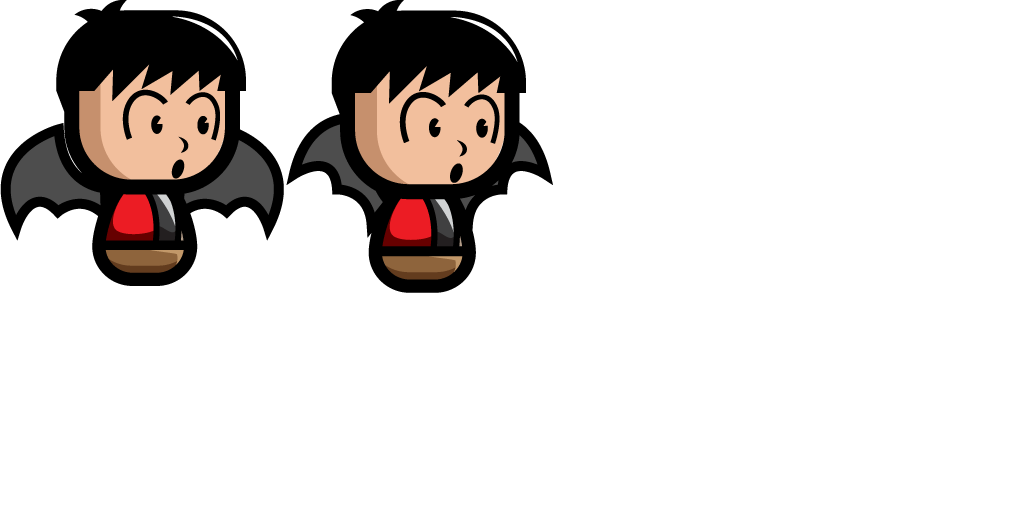
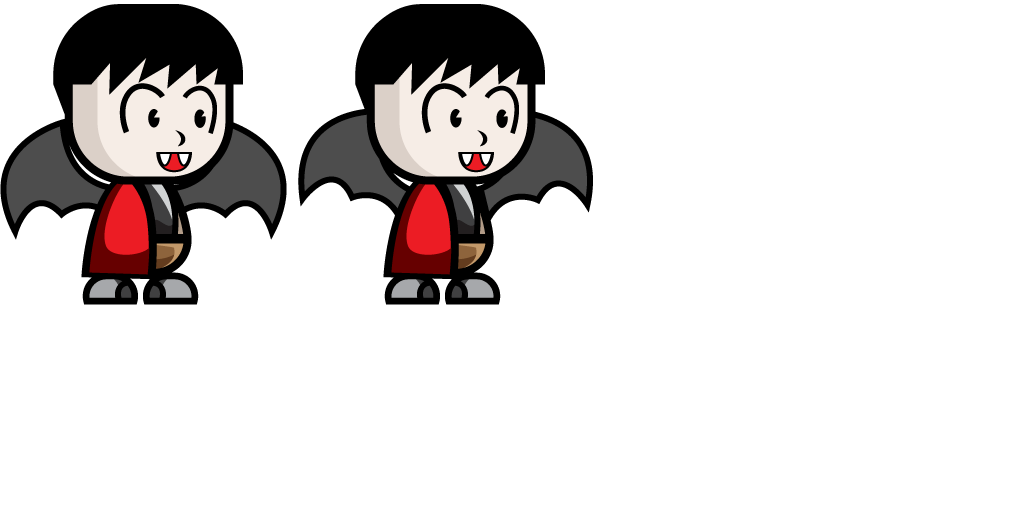
the player is now a vampire

Changed region(s): [[0.0, 0.0, 0.5938, 0.5938], [0.0625, 0.0, 0.25, 0.125], [0.0312, 0.0938, 0.0625, 0.1562]]

diff --git a/public/js/game/states/Preload.js b/public/js/game/states/Preload.js
@@ -16,8 +16,8 @@ ZenvaRunner.Preload.prototype = {
 		this.load.image('background', 'assets/images/background-3.jpg');
 		// this.load.image('foreground', 'assets/images/foreground.png');
 
-		this.load.spritesheet('coins', 'assets/images/hearts.png', 82, 72, 5);
-		this.load.spritesheet('player', 'assets/images/player.png', 283, 290, 2);
+		this.load.spritesheet('coins', 'assets/images/hearts.png', 82, 72, 4);
+		this.load.spritesheet('player', 'assets/images/player.png', 298, 305, 2);
 		this.load.spritesheet('enemy', 'assets/images/enemy.png', 157, 218, 1);
 
 		this.load.audio('gameMusic', ['assets/audio/disco_is_undead.mp3', 'assets/audio/Pamgaea.ogg']);

diff --git a/public/js/game/states/MainMenu.js b/public/js/game/states/MainMenu.js
@@ -16,7 +16,7 @@ ZenvaRunner.MainMenu.prototype = {
 		this.player.scale.setTo(0.3);
 
 		this.player.animations.add('fly', [0,1]);
-		this.player.animations.play('fly', 4, true);
+		this.player.animations.play('fly', 2, true);
 
 		this.game.add.tween(this.player).to({y: this.player.y - 16}, 500, Phaser.Easing.Linear.NONE, true, 0, Infinity, true);
 
@@ -31,8 +31,5 @@ ZenvaRunner.MainMenu.prototype = {
 		if(this.game.input.activePointer.justPressed()) {
 			this.game.state.start('Game');
 		}
-		// if(this.game.input.keyboard.addKey(Phaser.Keyboard.SPACEBAR)) {
-		// 	this.game.state.start('Game');
-		// }
 	}
 };

diff --git a/public/js/game/states/Game.js b/public/js/game/states/Game.js
@@ -1,6 +1,6 @@
 ZenvaRunner.Game = function() {
-  // this.playerMinAngle = -2;
-  // this.playerMaxAngle = 2;
+  this.playerMinAngle = -2;
+  this.playerMaxAngle = 2;
   
   this.coinRate = 1000;
   this.coinTimer = 0;
@@ -34,7 +34,7 @@ ZenvaRunner.Game.prototype = {
     this.player.scale.setTo(0.3);
 
     this.player.animations.add('fly', [0,1]);
-    this.player.animations.play('fly', 4, true);
+    this.player.animations.play('fly', 2, true);
 
     this.game.physics.startSystem(Phaser.Physics.ARCADE);
     this.game.physics.arcade.gravity.y = 400;
